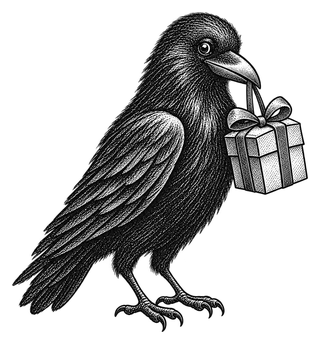
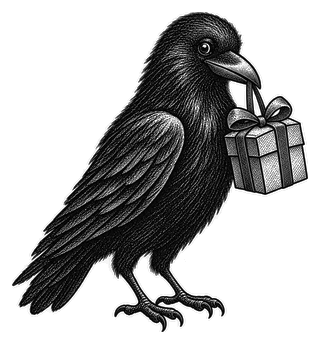
Raben kräftiger schwarz, damit sie sich abheben
Claude-Session: https://claude.ai/code/session_01CUtUTXpL6JbuMBRZbEXHh3

Changed region(s): [[0.0312, 0.0291, 0.9688, 0.9593], [0.5625, 0.6686, 0.625, 0.7267]]

diff --git a/styles.css b/styles.css
@@ -226,15 +226,13 @@ button.item > svg { color:var(--faint); }
 .raven::before, .raven::after { content:""; position:absolute; inset:0; }
 .raven::before { display:none; background:var(--raven-edge, transparent);
   -webkit-mask:var(--raven-rand) center / contain no-repeat; mask:var(--raven-rand) center / contain no-repeat; }
-.raven::after { background:var(--raven-ink, var(--muted)); opacity:.9;
+.raven::after { background:var(--raven-ink, var(--ink));
   -webkit-mask:var(--raven) center / contain no-repeat; mask:var(--raven) center / contain no-repeat; }
 [data-theme="dark"] .raven { --raven-edge:#E4E2DB; --raven-ink:#111111; }
 [data-theme="dark"] .raven::before { display:block; }
-[data-theme="dark"] .raven::after { opacity:1; }
 @media (prefers-color-scheme: dark) {
   :root:not([data-theme="light"]) .raven { --raven-edge:#E4E2DB; --raven-ink:#111111; }
   :root:not([data-theme="light"]) .raven::before { display:block; }
-  :root:not([data-theme="light"]) .raven::after { opacity:1; }
 }
 
 /* ---------- Rückgängig ---------- */

diff --git a/sw.js b/sw.js
@@ -1,5 +1,5 @@
 // Service Worker: App-Hülle offline verfügbar machen. Daten laufen nie über den Cache.
-const VERSION = 'hm-8';
+const VERSION = 'hm-9';
 const SHELL = [
   './', 'index.html', 'styles.css', 'manifest.webmanifest',
   'src/main.js', 'src/model.js', 'src/logic.js', 'src/storage.js', 'src/sync.js', 'src/texts.js', 'src/ui.js',
